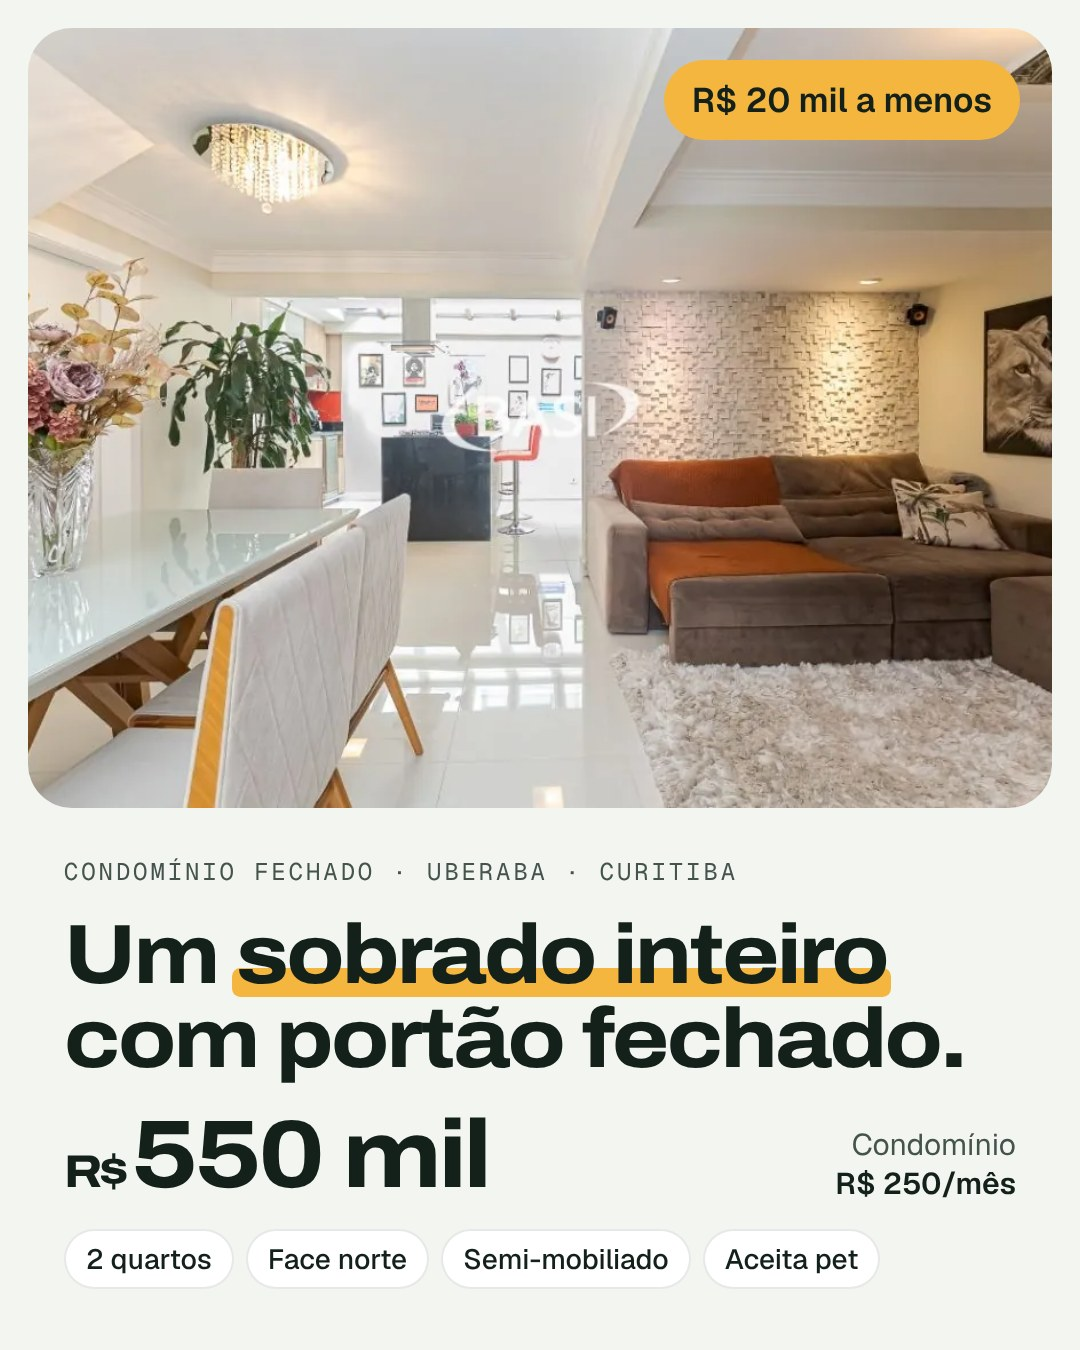
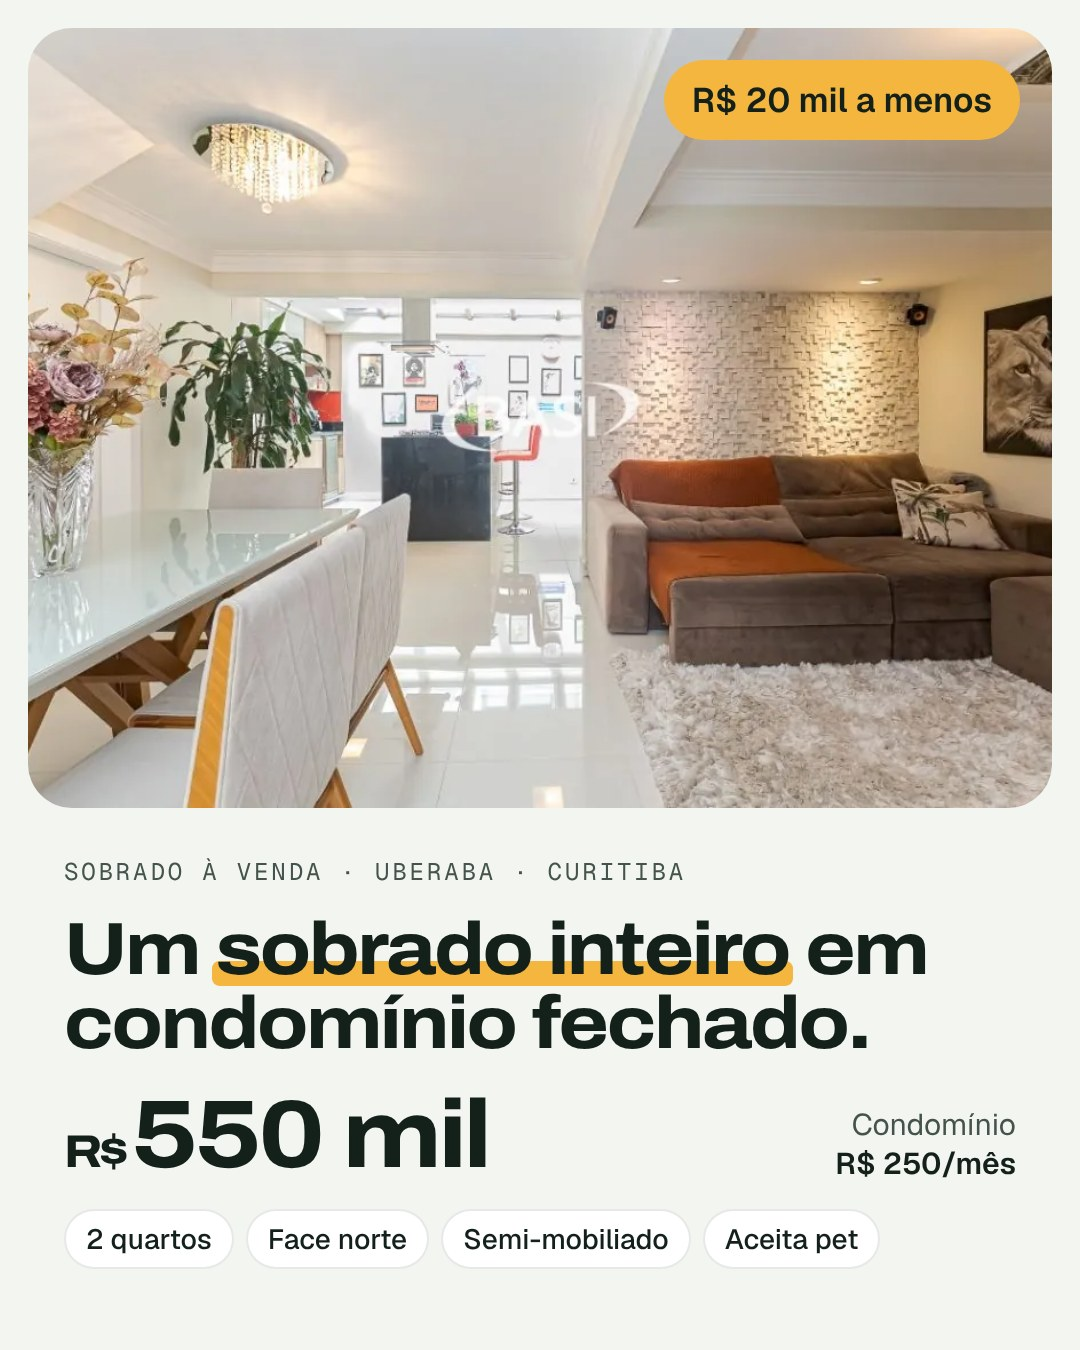
Troca o título para 'sobrado inteiro em condomínio fechado'
Usa o termo que o comprador pesquisa (condomínio fechado) no título da
página, nos criativos de feed e paisagem, na imagem de compartilhamento
e no anúncio B. A etiqueta acima do título passa a ser 'Sobrado à venda'
para não repetir a expressão.

Claude-Session: https://claude.ai/code/session_01DcgE9XaBs98acypsvUgWfF

Changed region(s): [[0.0611, 0.6844, 0.9472, 0.9644], [0.0917, 0.6222, 0.6722, 0.6533]]

diff --git a/sobrado-uberaba/index.html b/sobrado-uberaba/index.html
@@ -437,8 +437,8 @@ fieldset.f-campo{border:0;margin:0;padding:0;min-width:0}
 <section class="heroi">
   <div class="wrap">
     <div class="heroi__grade">
-      <span class="eyebrow"><i></i>Condomínio fechado · Uberaba · Curitiba</span>
-      <h1 class="display h1">Um <span class="marca">sobrado inteiro</span>, com portão fechado e condomínio de R$&nbsp;250.</h1>
+      <span class="eyebrow"><i></i>Sobrado à venda · Uberaba · Curitiba</span>
+      <h1 class="display h1">Um <span class="marca">sobrado inteiro</span> em condomínio fechado, com taxa de R$&nbsp;250.</h1>
       <p class="lead">2 quartos, cozinha com ilha, face norte e armários planejados. Semi-mobiliado, aceita pet e pronto para receber a sua mudança.</p>
 
       <div class="heroi__media">

diff --git a/sobrado-uberaba/ANUNCIOS.md b/sobrado-uberaba/ANUNCIOS.md
@@ -72,7 +72,7 @@ A mensagem do WhatsApp termina com `[ref. 4631 · meta/campanha]` quando o cliqu
 **Texto principal**
 > Cansou de vizinho de cima e de condomínio que só sobe?
 >
-> Este sobrado no Uberaba tem dois andares só seus, portão fechado e condomínio de R$ 250 por mês. Cozinha com ilha, armários planejados em todos os ambientes, vaga na frente da porta e aceita pet.
+> Este sobrado no Uberaba tem dois andares só seus, em condomínio fechado, com taxa de R$ 250 por mês. Cozinha com ilha, armários planejados em todos os ambientes, vaga na frente da porta e aceita pet.
 >
 > R$ 550 mil, aceita financiamento. Agende sua visita pelo WhatsApp.
 >
